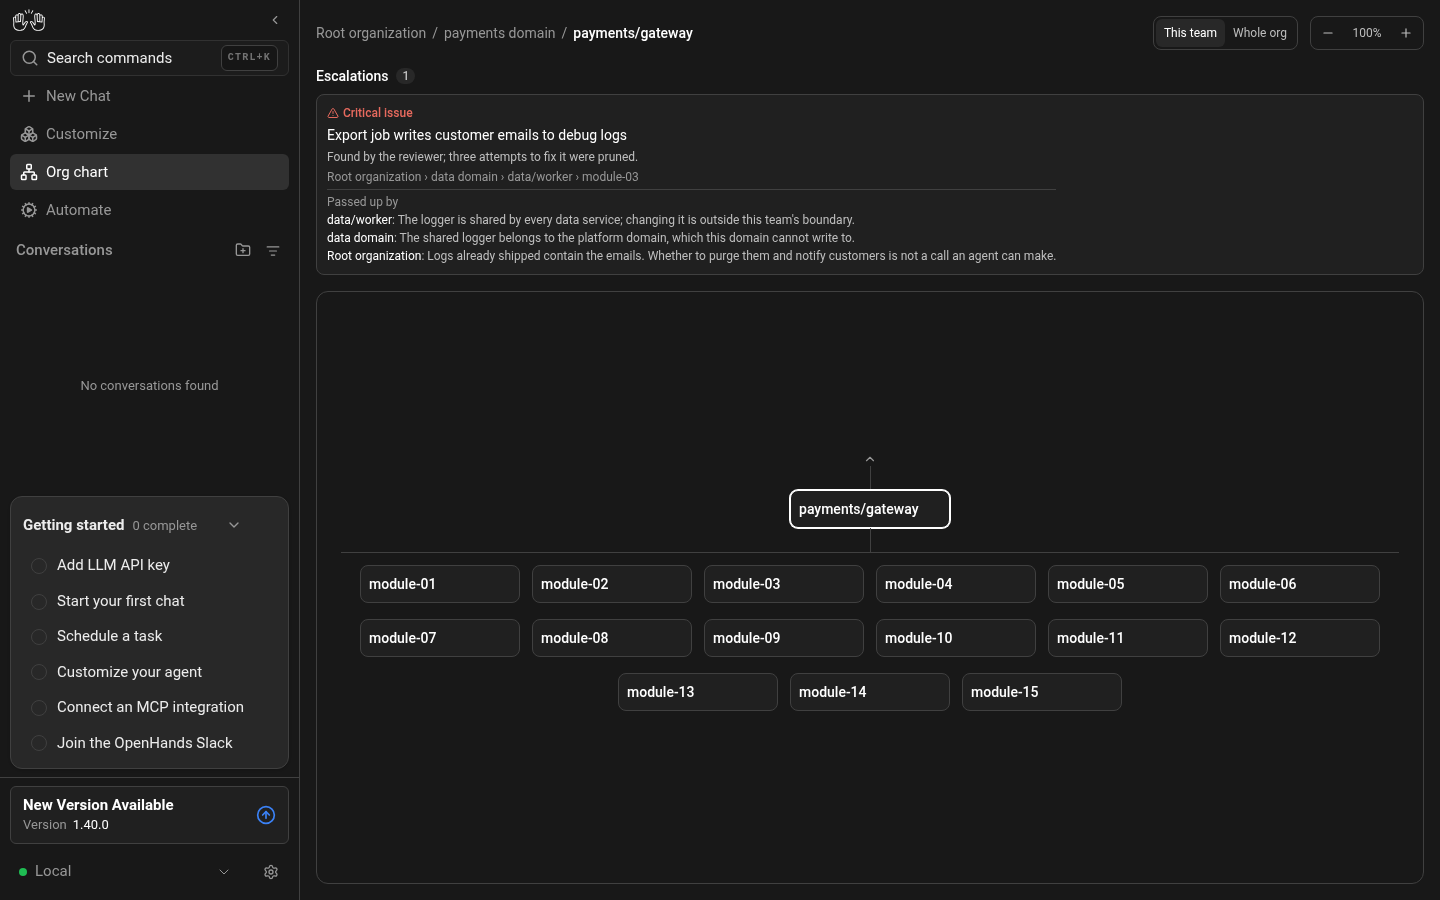
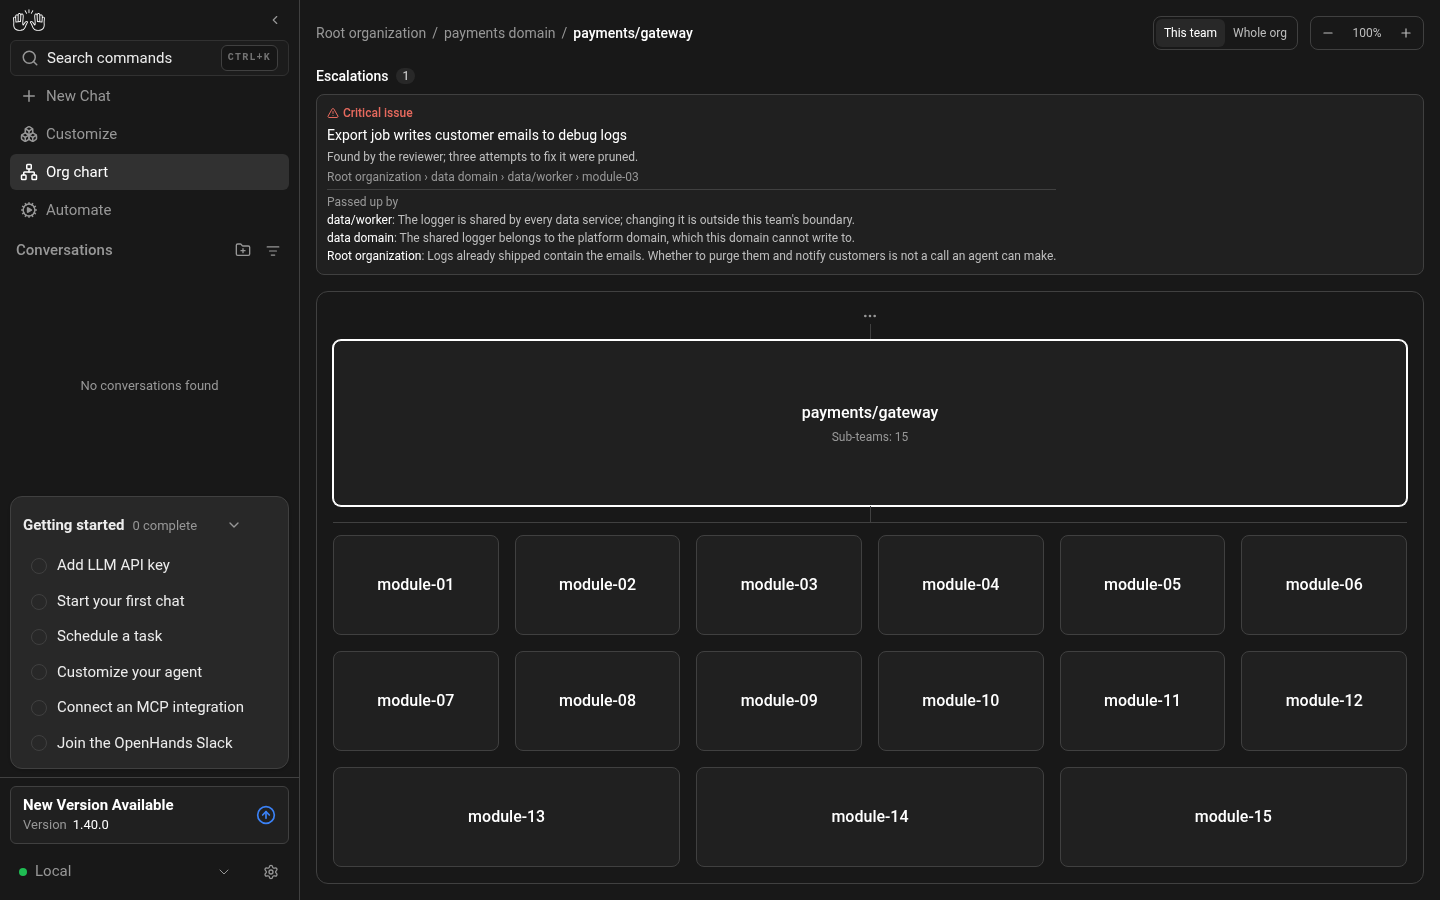
feat(org-chart): one team fills the chart, ellipsis for the rest of the org
- The team the page is on and its reports now fill the chart area: the
  team across the top, its reports below in as many to a row as fit,
  with gaps between them. Rows share the height and a short last row
  shares its width, so nothing is left empty.
- An ellipsis above the team stands for the team above it (and is the
  link up); one below a report stands for that report's sub-teams.
- Cards show the sub-team count again and wrap long names: a card may
  grow taller, not wider.

diff --git a/src/components/features/org-chart/focused-chart.tsx b/src/components/features/org-chart/focused-chart.tsx
@@ -1,4 +1,4 @@
-import { ChevronUp } from "lucide-react";
+import { Ellipsis } from "lucide-react";
 import { useTranslation } from "react-i18next";
 import type { NodeId, OrgNode } from "#/api/director/types";
 import { NavigationLink } from "#/components/shared/navigation-link";
@@ -16,10 +16,15 @@ interface FocusedChartProps {
 
 const LINE = "w-px bg-border";
 
+/** Stands for the part of the org that is not drawn. */
+function More() {
+  return <Ellipsis width={16} height={16} aria-hidden="true" />;
+}
+
 /**
- * One team and its direct reports, and nothing else of the org. A line
- * leaving the top of the team says it has a team above it; a line leaving
- * the bottom of a report says that report has sub-teams of its own.
+ * One team and its direct reports, filling the chart. The rest of the org
+ * is only hinted at: an ellipsis above the team when there is a team above
+ * it, and one below each report that has sub-teams of its own.
  */
 export function FocusedChart({
   current,
@@ -29,6 +34,9 @@ export function FocusedChart({
   onOpenDetails,
 }: FocusedChartProps) {
   const { t } = useTranslation("openhands");
+  const anyReportHasSubTeams = reports.some(
+    (report) => report.child_ids.length > 0,
+  );
 
   return (
     <div className="flex w-full flex-col items-center">
@@ -36,40 +44,60 @@ export function FocusedChart({
         <NavigationLink
           to={orgNodePath(parent.id)}
           aria-label={t(I18nKey.ORG_CHART$GO_UP, { title: parent.title })}
-          className="group flex flex-col items-center text-muted hover:text-contrast"
+          className="group flex shrink-0 flex-col items-center text-muted hover:text-contrast"
         >
-          <ChevronUp width={14} height={14} aria-hidden="true" />
+          <More />
           <span
             aria-hidden="true"
-            className={`h-6 ${LINE} group-hover:bg-contrast`}
+            className={`h-4 ${LINE} group-hover:bg-contrast`}
           />
         </NavigationLink>
       ) : null}
-      <NodeCard
-        node={current}
-        current
-        titleOf={titleOf}
-        onOpenDetails={onOpenDetails}
-      />
+      <div className="min-h-16 w-full flex-1">
+        <NodeCard
+          node={current}
+          current
+          fill
+          titleOf={titleOf}
+          onOpenDetails={onOpenDetails}
+        />
+      </div>
       {reports.length > 0 ? (
         <>
-          <span aria-hidden="true" className={`h-6 ${LINE}`} />
-          <ul className="flex max-w-full flex-wrap justify-center gap-x-3 gap-y-1 border-t border-border pt-3">
+          <span aria-hidden="true" className={`h-4 shrink-0 ${LINE}`} />
+          {/* As many to a row as fit. Rows share the height, and the cards
+              of a row share its width, so a short last row leaves no gap. */}
+          <ul className="flex w-full flex-2 flex-wrap gap-4 border-t border-border pt-3">
             {reports.map((report) => (
-              <li key={report.id} className="flex flex-col items-center">
-                <NodeCard
-                  node={report}
-                  current={false}
-                  titleOf={titleOf}
-                  onOpenDetails={onOpenDetails}
-                />
-                <span
-                  aria-hidden="true"
-                  data-has-sub-teams={report.child_ids.length > 0 || undefined}
-                  className={
-                    report.child_ids.length > 0 ? `h-3 ${LINE}` : "h-3"
-                  }
-                />
+              <li
+                key={report.id}
+                className="flex min-w-36 flex-1 basis-36 flex-col"
+              >
+                <div className="min-h-14 flex-1">
+                  <NodeCard
+                    node={report}
+                    current={false}
+                    fill
+                    titleOf={titleOf}
+                    onOpenDetails={onOpenDetails}
+                  />
+                </div>
+                {report.child_ids.length > 0 ? (
+                  <span
+                    aria-hidden="true"
+                    data-has-sub-teams
+                    className="flex shrink-0 flex-col items-center text-muted"
+                  >
+                    <span className={`h-2 ${LINE}`} />
+                    <More />
+                  </span>
+                ) : (
+                  // Keeps a row of cards the same height when only some
+                  // of them have sub-teams.
+                  anyReportHasSubTeams && (
+                    <span aria-hidden="true" className="h-6 shrink-0" />
+                  )
+                )}
               </li>
             ))}
           </ul>

diff --git a/src/components/features/org-chart/node-card.tsx b/src/components/features/org-chart/node-card.tsx
@@ -18,10 +18,12 @@ interface NodeCardProps {
   onOpenDetails: () => void;
   /** Bring the current team to the middle of a chart that scrolls. */
   centerInScroller?: boolean;
+  /** Take all the room the chart gives the card, instead of a fixed width. */
+  fill?: boolean;
 }
 
 const MAIN_CLASS =
-  "flex w-full items-center gap-1.5 rounded-lg p-2 text-left hover:bg-surface-raised";
+  "flex size-full flex-col justify-center gap-1 rounded-lg p-2 hover:bg-surface-raised";
 
 /**
  * One team. Clicking it moves the page to that team; clicking the team the
@@ -33,6 +35,7 @@ export function NodeCard({
   titleOf,
   onOpenDetails,
   centerInScroller = false,
+  fill = false,
 }: NodeCardProps) {
   const { t } = useTranslation("openhands");
   const ref = React.useRef<HTMLDivElement>(null);
@@ -58,26 +61,37 @@ export function NodeCard({
     onScreen.current = true;
   }, [zoom]);
 
+  const mainClass = cn(
+    MAIN_CLASS,
+    fill ? "items-center text-center" : "items-start text-left",
+  );
   const body = (
     <>
-      <span className="min-w-0 flex-1 truncate text-sm font-medium text-contrast">
-        {node.title}
-      </span>
-      {node.escalation_count > 0 ? (
+      <span className="flex max-w-full items-start gap-1.5">
+        {/* Long names wrap: a card may grow taller, never wider. */}
         <span
-          role="img"
-          aria-label={t(I18nKey.ORG_CHART$ESCALATION_COUNT, {
-            count: node.escalation_count,
-          })}
-          className="flex shrink-0 items-center gap-0.5 text-xs font-medium text-feedback-error"
+          className={cn(
+            "min-w-0 break-words font-medium text-contrast",
+            fill ? "text-base" : "flex-1 text-sm",
+          )}
         >
-          <TriangleAlert width={12} height={12} aria-hidden="true" />
-          {node.escalation_count}
+          {node.title}
         </span>
-      ) : null}
+        {node.escalation_count > 0 ? (
+          <span
+            role="img"
+            aria-label={t(I18nKey.ORG_CHART$ESCALATION_COUNT, {
+              count: node.escalation_count,
+            })}
+            className="flex shrink-0 items-center gap-0.5 pt-0.5 text-xs font-medium text-feedback-error"
+          >
+            <TriangleAlert width={12} height={12} aria-hidden="true" />
+            {node.escalation_count}
+          </span>
+        ) : null}
+      </span>
       {node.child_ids.length > 0 ? (
-        // Sighted readers get this from the line below the card.
-        <span className="sr-only">
+        <span className="text-xs text-muted">
           {t(I18nKey.ORG_CHART$SUB_TEAMS, { count: node.child_ids.length })}
         </span>
       ) : null}
@@ -90,7 +104,8 @@ export function NodeCard({
       data-testid={`org-node-${node.id}`}
       data-current={current || undefined}
       className={cn(
-        "w-40 rounded-lg border bg-surface",
+        "rounded-lg border bg-surface",
+        fill ? "size-full" : "w-40",
         current ? "border-primary ring-1 ring-primary" : "border-border",
       )}
     >
@@ -107,12 +122,12 @@ export function NodeCard({
               title: node.title,
             })}
             onClick={onOpenDetails}
-            className={MAIN_CLASS}
+            className={mainClass}
           >
             {body}
           </button>
         ) : (
-          <NavigationLink to={orgNodePath(node.id)} className={MAIN_CLASS}>
+          <NavigationLink to={orgNodePath(node.id)} className={mainClass}>
             {body}
           </NavigationLink>
         )}

diff --git a/__tests__/components/features/org-chart/org-chart-view.test.tsx b/__tests__/components/features/org-chart/org-chart-view.test.tsx
@@ -318,16 +318,16 @@ describe("OrgChartView", () => {
       expect(teamLink("a/b c")).toHaveAttribute("href", "/org/a%2Fb%20c");
     });
 
-    it("draws a line under each report that has sub-teams, and no other", async () => {
+    it("marks each report that has sub-teams with an ellipsis below it, and no other", async () => {
       renderWithProviders(<OrgChartView nodeId={null} />);
       await findCard("root");
 
-      const hasLine = (id: string) =>
+      const hasMore = (id: string) =>
         card(id).closest("li")?.querySelector("[data-has-sub-teams]") !== null;
 
-      expect(hasLine("auth")).toBe(true);
-      expect(hasLine("billing")).toBe(false);
-      expect(hasLine("search")).toBe(false);
+      expect(hasMore("auth")).toBe(true);
+      expect(hasMore("billing")).toBe(false);
+      expect(hasMore("search")).toBe(false);
     });
 
     it("leads up to the team above only when there is one", async () => {
@@ -380,6 +380,18 @@ describe("OrgChartView", () => {
       expect(within(trail).getByText("oauth team")).toHaveAttribute(
         "aria-current",
         "page",
+      );
+    });
+
+    it("says on each card how many sub-teams the team has", async () => {
+      renderWithProviders(<OrgChartView nodeId={null} />);
+      await findCard("root");
+
+      const subTeams = (id: string) =>
+        within(card(id)).queryByText("ORG_CHART$SUB_TEAMS") !== null;
+
+      expect([subTeams("root"), subTeams("auth"), subTeams("billing")]).toEqual(
+        [true, true, false],
       );
     });
 

diff --git a/src/components/features/org-chart/org-chart-view.tsx b/src/components/features/org-chart/org-chart-view.tsx
@@ -122,19 +122,19 @@ export function OrgChartView({ nodeId }: OrgChartViewProps) {
           aria-label={t(I18nKey.ORG_CHART$NAV)}
           className="min-h-0 flex-1 overflow-auto rounded-xl border border-border"
         >
-          {/* Whatever is drawn sits in the middle of the page, both ways,
-              and scrolls once it is larger than the page. */}
+          {/* One team fills the chart. The whole org sits in the middle of
+              it. Either scrolls once it is larger than the chart. */}
           <div
             className={
               full
                 ? "flex min-h-full w-max min-w-full items-center justify-center p-6"
-                : "flex min-h-full w-full items-center justify-center p-6"
+                : "flex min-h-full w-full p-4"
             }
           >
             <div
               data-testid="org-chart-zoom"
               style={{ "--org-chart-zoom": zoom } as React.CSSProperties}
-              className={cn("org-chart-zoom", full || "w-full")}
+              className={cn("org-chart-zoom", full || "flex w-full")}
             >
               {full ? (
                 <OrgTree

diff --git a/.agents/skills/verify-openhands/references/feature-map/F30-org-chart.md b/.agents/skills/verify-openhands/references/feature-map/F30-org-chart.md
@@ -5,10 +5,12 @@ card is a team: a pod of agents (Lead IC, Manager, Reviewer, and a Worker on
 leaf teams) that owns one boundary of the repository.
 
 The page is always on one team (`/org/<id>`; `/org` is the root). By default
-it draws only that team and its direct reports, centered in the chart area. A
-line with a chevron above the team says there is a team above it, and a short
-line under a report says that report has sub-teams of its own. Clicking a
-report moves the page to it. **Whole org** draws every team instead, with the
+it draws only that team and its direct reports, and they fill the chart area:
+the team's card across the top, its reports below it, as many to a row as fit.
+An ellipsis (`…`) above the team says there is a team above it, and one under
+a report says that report has sub-teams of its own. Clicking a report moves
+the page to it. Each card shows the team's name and how many sub-teams it
+has; a long name wraps rather than widening the card. **Whole org** draws every team instead, with the
 team the page is on outlined and brought to the middle. The zoom control
 scales either view. The view and the zoom are remembered in the browser.
 
@@ -38,9 +40,9 @@ Server: F02, F25.
 
 ## Sub-features
 
-- `F30.open-root`: `/org` draws the root team's card and one card per direct report, nothing deeper, and no team's status or boundary.
+- `F30.open-root`: `/org` draws the root team's card and one card per direct report, nothing deeper, and no team's status or boundary. Together the cards fill the chart area.
 - `F30.navigate`: clicking a report moves the page to `/org/<id>`, which draws that team and its direct reports only, with a breadcrumb of its ancestors and a link up to the team above. A team without reports is drawn alone.
-- `F30.sub-team-lines`: a report that has sub-teams has a line below its card; one that has none does not. The root has no link up.
+- `F30.sub-team-lines`: a report that has sub-teams has an ellipsis below its card; one that has none does not. A team that has a team above it has an ellipsis above its card, which is the link up; the root has none.
 - `F30.hover`: hovering a card (or focusing it with the keyboard) shows that team's summary, status, boundary directory and worktree mode, writable and read-only globs, and agents.
 - `F30.whole-org`: **Whole org** draws every team; the team the page is on is outlined and scrolled to the middle, and clicking another card moves the page (and the outline) to it. **This team** goes back.
 - `F30.zoom`: **Zoom out** and **Zoom in** scale the chart in steps of 10% between 30% and 200%; the button between them shows the zoom and resets it to 100%. The zoom and the view survive a reload.
@@ -57,7 +59,7 @@ Server: F02, F25.
 
 - Sidebar → **Org chart** (`sidebar-org-chart-link`), shown for local backends only.
 - Direct URL: `/org` for the root team, `/org/<id>` for any other.
-- A card, the link above the current team, a breadcrumb link, or an escalation.
+- A card, the ellipsis above the current team, a breadcrumb link, or an escalation.
 
 ## Driving it with control-openhands
 
